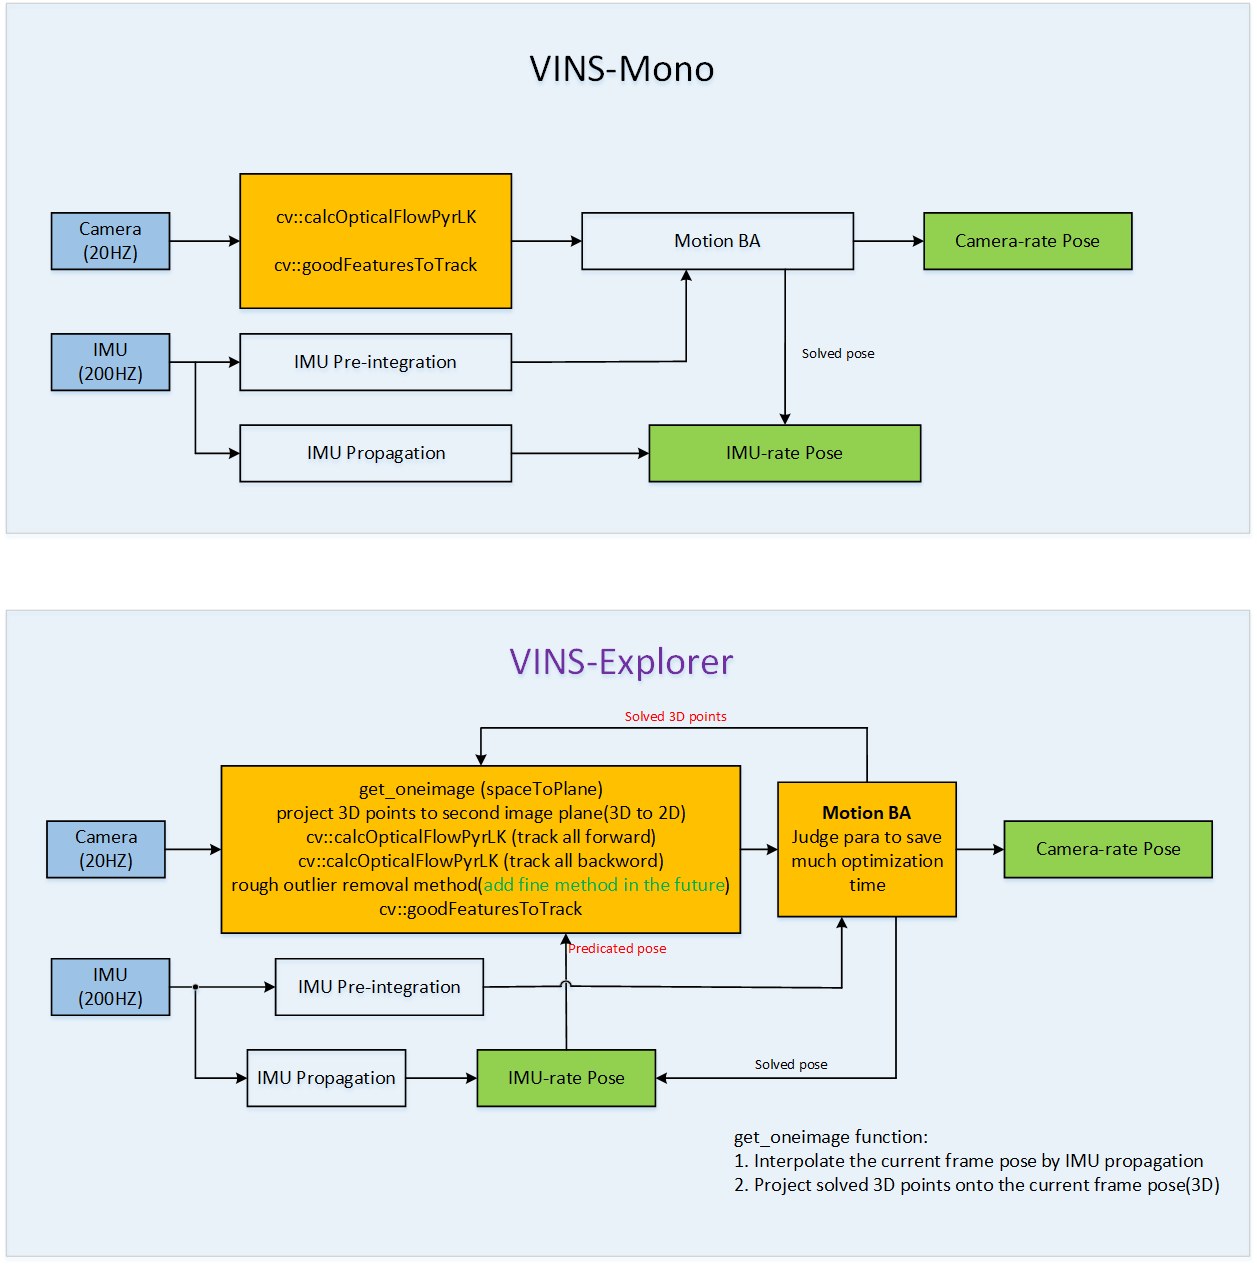
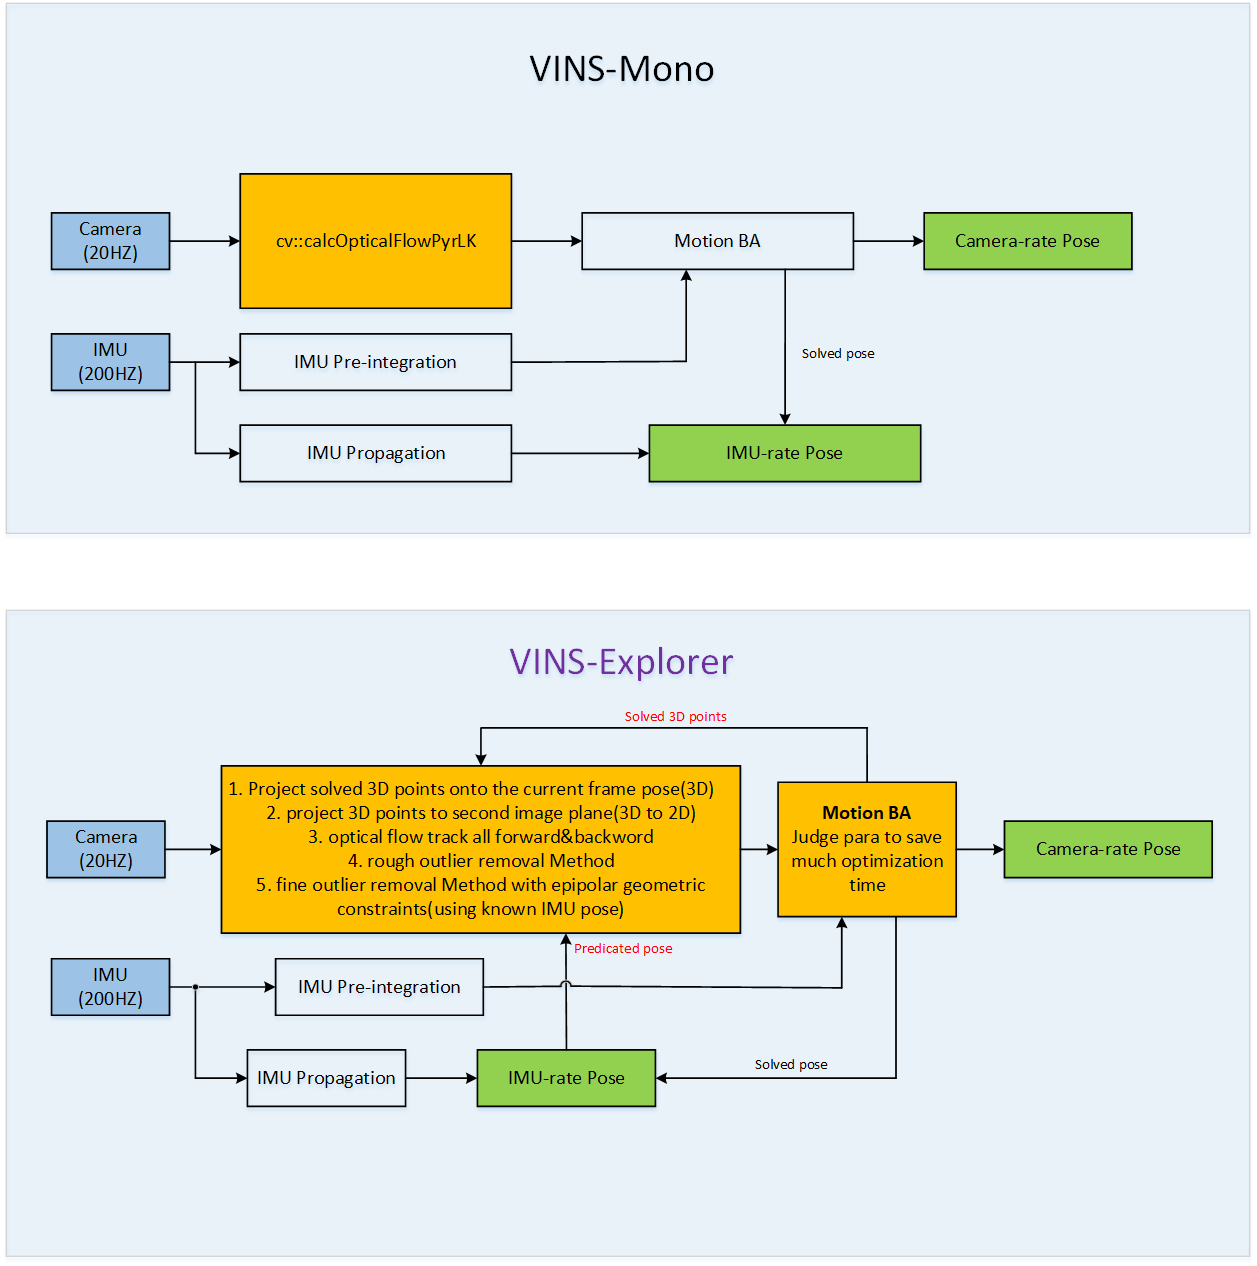
更新readme

Changed region(s): [[0.1862, 0.6161, 0.5895, 0.7701], [0.5895, 0.8934, 0.9618, 0.955], [0.2172, 0.154, 0.3723, 0.2156]]

diff --git a/README.md b/README.md
@@ -20,8 +20,10 @@
 IMU递推位姿的误差随时间呈现指数形式增加，不同的IMU型号误差增速差异巨大。 
 但是短时间内的误差都会很小，视觉帧之间的时间差也就50 100ms样子，像这种时间差，IMU都可以提供非常精准的位姿估计。 
 甚至于消费级IMU在这种时间差内的误差都完全可以接受。因此该算法可以直接在大多数机器人应用上落地。 
-目前的核心工作都是为KLT光流跟踪算法库函数cv::calcOpticalFlowPyrLK()提供特征点在第二帧图像中的坐标，但是这么做并不彻底， 
-因为高精度的IMU递推位姿以及已有3D点这些信息其实是可以做类似 rejectWithF() 的操作，不再需要RANSAC
+
+**2025年05月05日**： 
+rejectWith_predicted_Pose() 代替 rejectWithF(): 利用高精度的IMU递推位姿构造本质矩阵，基于对极几何约束剔除outlier。
+可以节省一部分时间，也不再像cv::findFundamentalMat()那样需要最少点对数量达标才能运行。即使1对点对也可以验证对极约束
 
 **2025年04月25日**： 
 Debug; 
